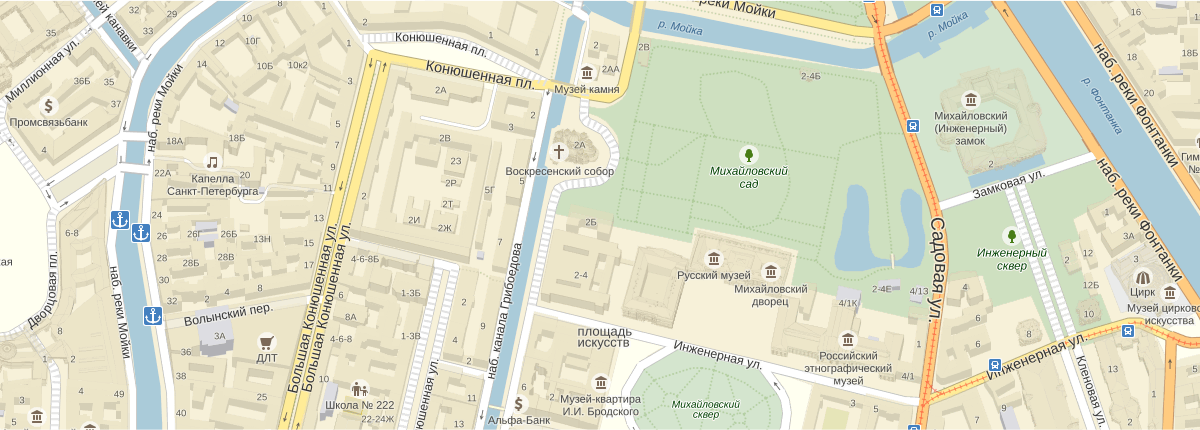
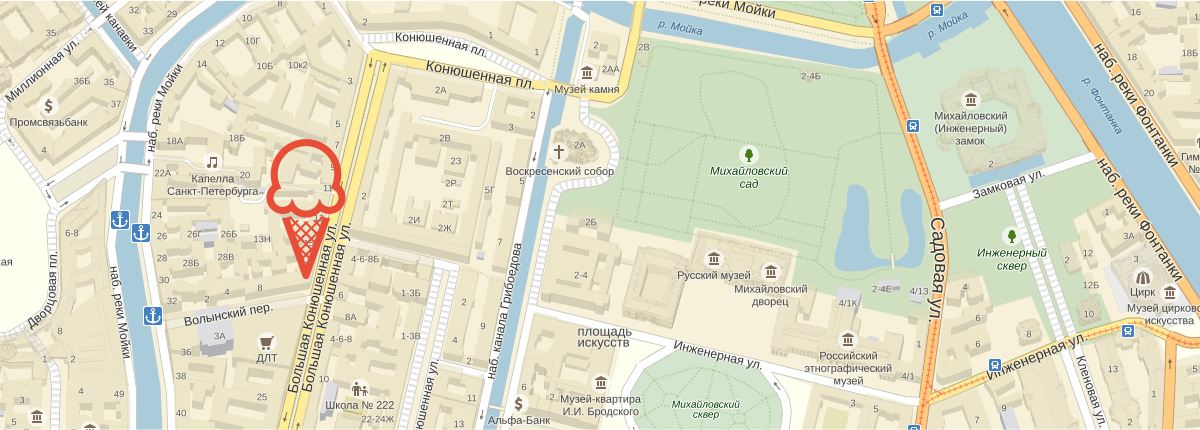
Добавлены изображения в index.html, перемещен <p> с временем работы в <header>

Changed region(s): [[0.2158, 0.3023, 0.3083, 0.6349]]

diff --git a/index.html b/index.html
@@ -20,20 +20,22 @@
         <li><a href="">О компании</a></li>
       </ul>
       <ul>
-        <li><button type="button">Поиск</button></li>
+        <li><button type="button"><!--<img src="IMG/Loupe_icon.png">--> Поиск</button></li>
         <li><a href="">Вход</a></li>
         <li><button type="button">Корзина</button></li>
         </li>
       </ul>
     </nav>
-  </header>
-  <main>
+    <h1>Магазин мороженого</h1>
     <p>
       С 10 до 20, ежедневно<br>
       8 812 450-25-25
     </p>
-    <article>
-      <h1 class="visually-hidden">Предложения</h1>
+  </header>
+  <main>
+    <h2 class="visually-hidden">Предложения</h2>
+    <article class="offer_1">
+      <img src="IMG/IceCreams_1.png">
       <p>
         Крем-брюле и пломбир<br>
         с малиновым джемом
@@ -41,7 +43,7 @@
       <button type="button">Давайте оба!</button>
     </article>
     <section>
-      <h2>Малинка даром!</h2>
+      <h3>Малинка даром!</h3>
       <p>
         При покупке 2 кг любого фруктового мороженого, добавим<br>
         в ваш заказ банку малинового варенья бесплатно.
@@ -49,7 +51,7 @@
       <button type="button">Хочу варенье!</button>
     </section>
     <section>
-      <h2>Шоколадки даром!</h2>
+      <h3>Шоколадки даром!</h3>
       <p>
         При покупке 2 кг пломбира, добавим в ваш заказ упаковку<br>
         вкуснейшей шоколадной присыпки совершенно бесплатно.
@@ -59,26 +61,26 @@
     <section>
       <ul>
         <li>
-          <img src="" alt="Хит">
-          <img src="" alt="Мороженое 1">
+          <img src="IMG/Hit.png" alt="Хит">
+          <img src="IMG/Taste_1.png" alt="Мороженое 1">
           <p>310 ₽/кг</p>
           <button type="button">Сливочное с апельсиновым джемом и цитрусовой стружкой</button>
         </li>
         <li>
-          <img src="" alt="Хит">
-          <img src="" alt="Мороженое 2">
+          <img src="IMG/Hit.png" alt="Хит">
+          <img src="IMG/Taste_2.png" alt="Мороженое 2">
           <p>380 ₽/кг</p>
           <button type="button">Сливочно-кофейное с кусочками шоколада</button>
         </li>
         <li>
-          <img src="" alt="Хит">
-          <img src="" alt="Мороженое 3">
+          <img src="IMG/Hit.png" alt="Хит">
+          <img src="IMG/Taste_3.png" alt="Мороженое 3">
           <p>355 ₽/кг</p>
           <button type="button">Сливочно-клубничное с присыпкой из белого шоколада</button>
         </li>
         <li>
-          <img src="" alt="Хит">
-          <img src="" alt="Мороженое 4">
+          <img src="IMG/Hit.png" alt="Хит">
+          <img src="IMG/Taste_4.png" alt="Мороженое 4">
           <p>415 ₽/кг</p>
           <button type="button">Сливочное крем-брюле с карамельной подливкой</button>
         </li>
@@ -88,20 +90,20 @@
       <h3>Магазин Глэйси — это онлайн- и офлайн-магазин по продаже мороженого
         собственного производства на развес</h3>
       <ul>
-        <img src="" alt="Иконка 1">
+        <img src="IMG/IceCream_icon.png" alt="Иконка 1">
         <p>Все наше мороженое изготавливается на собственном производстве,
           с использованием современного оборудования
           и проверенных временем технологий.</p>
-        <img src="" alt="Иконка 2">
+        <img src="IMG/Leaf_icon.png" alt="Иконка 2">
         <p>Для приготовления мороженого используются настоящие сливки и молоко высочайшего
           качества. Все дополнительные ингредиенты и добавки произведены из натурального,
           экологически чистого сырья.</p>
       </ul>
       <ul>
-        <img src="" alt="Иконка 3">
+        <img src="IMG/Cow_icon.png" alt="Иконка 3">
         <p>Закупка ингредиентов производится только у проверенных фермерских хозяйств и компаний,
           с которыми нас связывает долговременное сотрудничество.</p>
-        <img src="" alt="Иконка 4">
+        <img src="IMG/Thermometer_icon.png" alt="Иконка 4">
         <p>Доставка нашего мороженого до заказчиков осуществляется в специальном термопаке,
           который не дает мороженому растаять в пути и позволяет сохранить превосходный вкус.</p>
       </ul>
@@ -119,8 +121,7 @@
       </form>
     </section>
     <article>
-      <img src="" alt="Карта с адресом">
-      <img src="" alt="Отметка на карте">
+      <img src="IMG/Map.png" alt="Карта с адресом">
       <section>
         <h5>Адрес главного офиса и офлайн-магазина:</h5>
         <p>
@@ -135,14 +136,14 @@
   </main>
   <footer>
     <ul>
-      <li><img src="" alt="Иконка Твиттер"></li>
-      <li><img src="" alt="Иконка Инстаграм"></li>
-      <li><img src="" alt="Иконка Фейсбук"></li>
-      <li><img src="" alt="Иконка ВКонтакте"></li>
+      <li><img src="IMG/Twitter_icon.png" alt="Иконка Твиттер"></li>
+      <li><img src="IMG/Instagram_icon.png" alt="Иконка Инстаграм"></li>
+      <li><img src="IMG/Facebook_icon.png" alt="Иконка Фейсбук"></li>
+      <li><img src="IMG/VK_icon.png" alt="Иконка ВКонтакте"></li>
     </ul>
     <ul>
       <li>
-        <img src="" alt="Иконка сердечко">
+        <img src="IMG/Heart_icon.png" alt="Иконка сердечко">
         <a href="">Для поставщиков</a>
       </li>
       <li><a href="">О производстве</a></li>
@@ -151,7 +152,7 @@
       <li><a href="">Наши документы</a></li>
       <li><a href="">Экологические стандарты</a></li>
     </ul>
-    <img src="" alt="HTML Academy">
+    <img src="IMG/Logo_html_Academy.png" alt="HTML Academy">
     <p>Сделано в HTML Academy © 2019</p>
   </footer>
 </body>

diff --git a/CSS/index.css b/CSS/index.css
@@ -2,6 +2,10 @@
     --color-background: #849D8F;
 }
 
+body {
+    background-color: var(--color-background);
+}
+
 .visually-hidden {
     position: absolute;
     width: 1px;
@@ -13,6 +17,3 @@
     overflow: hidden;
 }
 
-body {
-    background-color: var(--color-background);
-}
